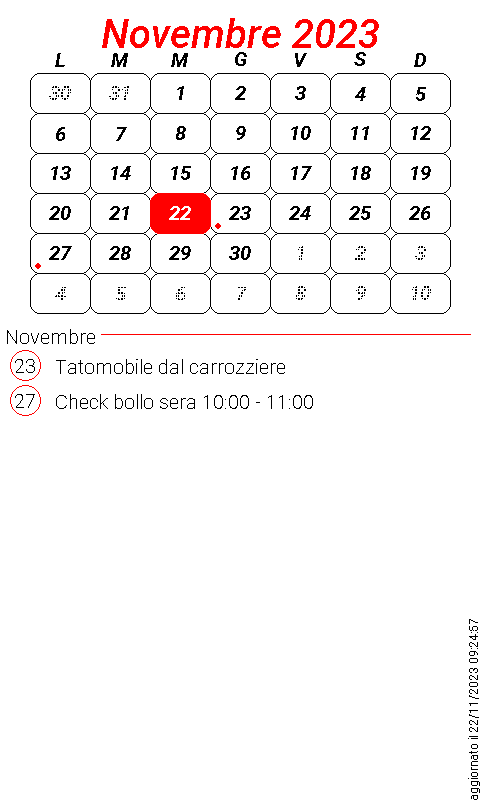
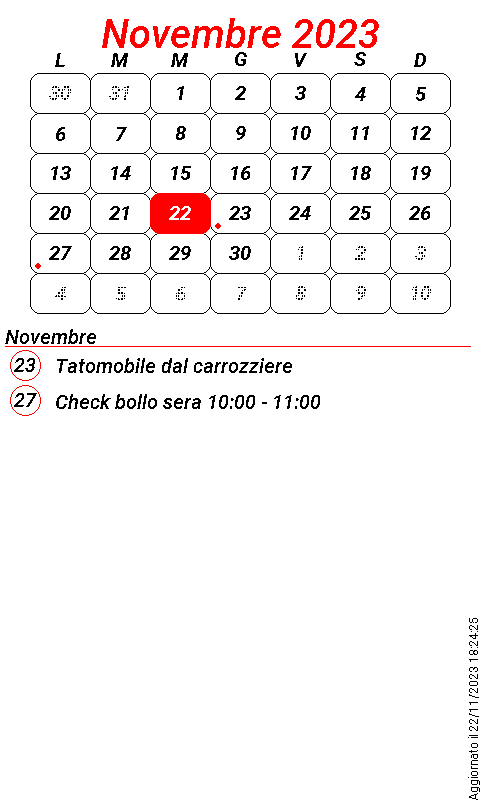
1

diff --git a/flib.py b/flib.py
@@ -172,7 +172,7 @@ def generate():
     margin=2
     c = 0
     baseFontSize=20
-    font = ImageFont.truetype("./fonts/Roboto-Thin.ttf", size=baseFontSize)
+    font = ImageFont.truetype("./fonts/Roboto-MediumItalic.ttf", size=baseFontSize)
     
     allevents = getEvents()
     
@@ -199,7 +199,7 @@ def generate():
             m = months[int(ed[5:7])-1]
             _, _, bw, bh = blackDraw.textbbox((0,0), m,font = font)
             blackDraw.text((margin,currenty), m , fill=0,font = font)
-            redDraw.line((margin*2+bw,currenty+bh/2,width-hmargin,currenty+bh/2), fill=None, width=1, joint=None)
+            redDraw.line((margin,currenty+bh+1,width-hmargin,currenty+bh+1), fill=None, width=1, joint=None)
 
             currenty = currenty+baseFontSize+margin
         if(day!=ed):

diff --git a/start.py b/start.py
@@ -30,10 +30,9 @@ def sendCommand(s,message):
 
 if __name__ == '__main__':
     (black,red) = flib.getImages()
-    black.save('black.png')
-    red.save('red.png')
-    flib.merge(black,red)
-    exit(1)
+    #black.save('black.png')
+    #red.save('red.png')
+    #flib.merge(black,red)
 
     import socket
 
